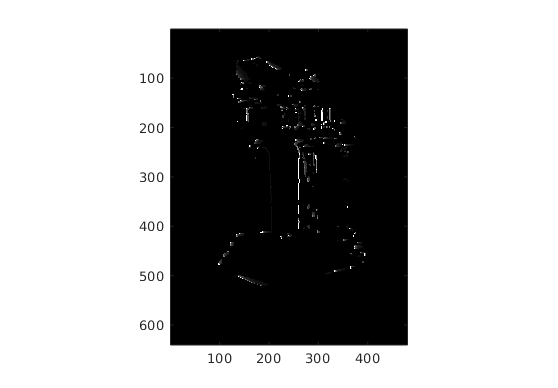
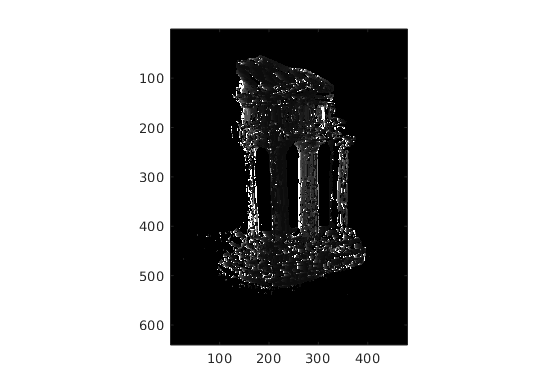
assign3: fixed Q3.2.3

Changed region(s): [[0.3961, 0.1237, 0.6703, 0.7423]]

diff --git a/assgn3/ec/get_disparity.m b/assgn3/ec/get_disparity.m
@@ -4,12 +4,12 @@ function dispM = get_disparity(im1, im2, maxDisp, windowSize)
 dispM = zeros(size(im1)) + maxDisp;
 disp_min = zeros(size(im1)) + inf;
 
-im1 = im1 ./ 255;
-im2 = im2 ./ 255;
+im1 = double(im1);
+im2 = double(im2);
 
 for d = 0:maxDisp
    im2d = imtranslate(im2, [d 0], 'FillValues', inf); 
-   disp = conv2(im1.*im1 - 2.*im1.*im2d + im2d.*im2d, ones(windowSize, windowSize), 'same');
+   disp = conv2((im1-im2d).^2, ones(windowSize, windowSize), 'same');
    %dispM = min(dispM, disp);
    dispM(disp<disp_min) = d;
    disp_min = min(disp_min, disp);
